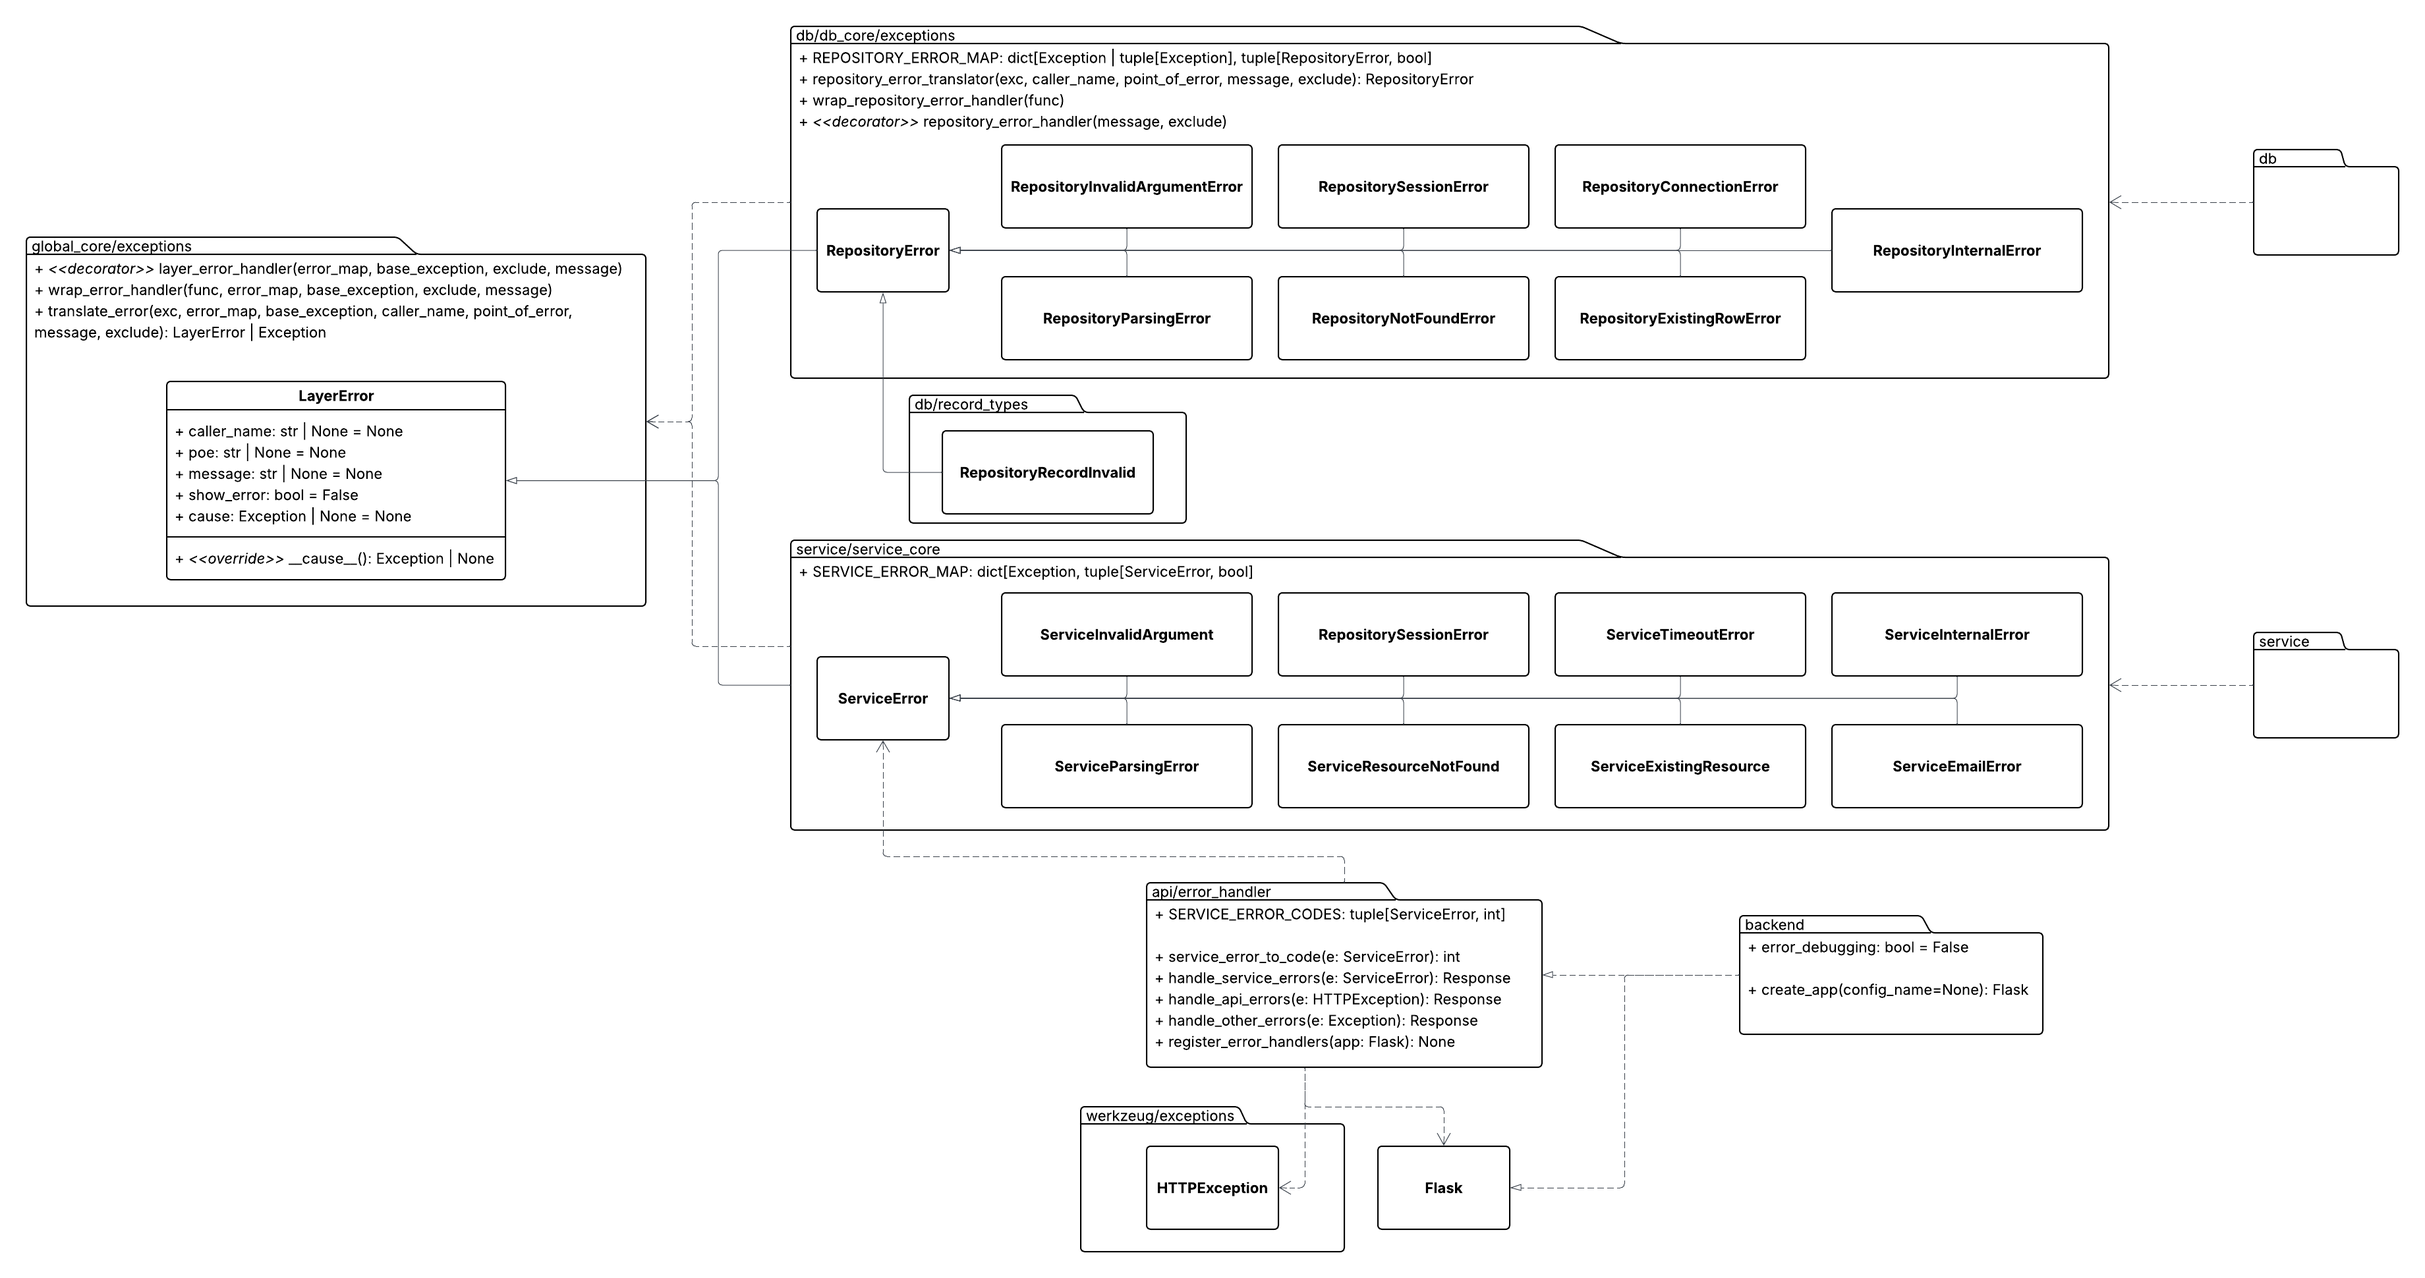
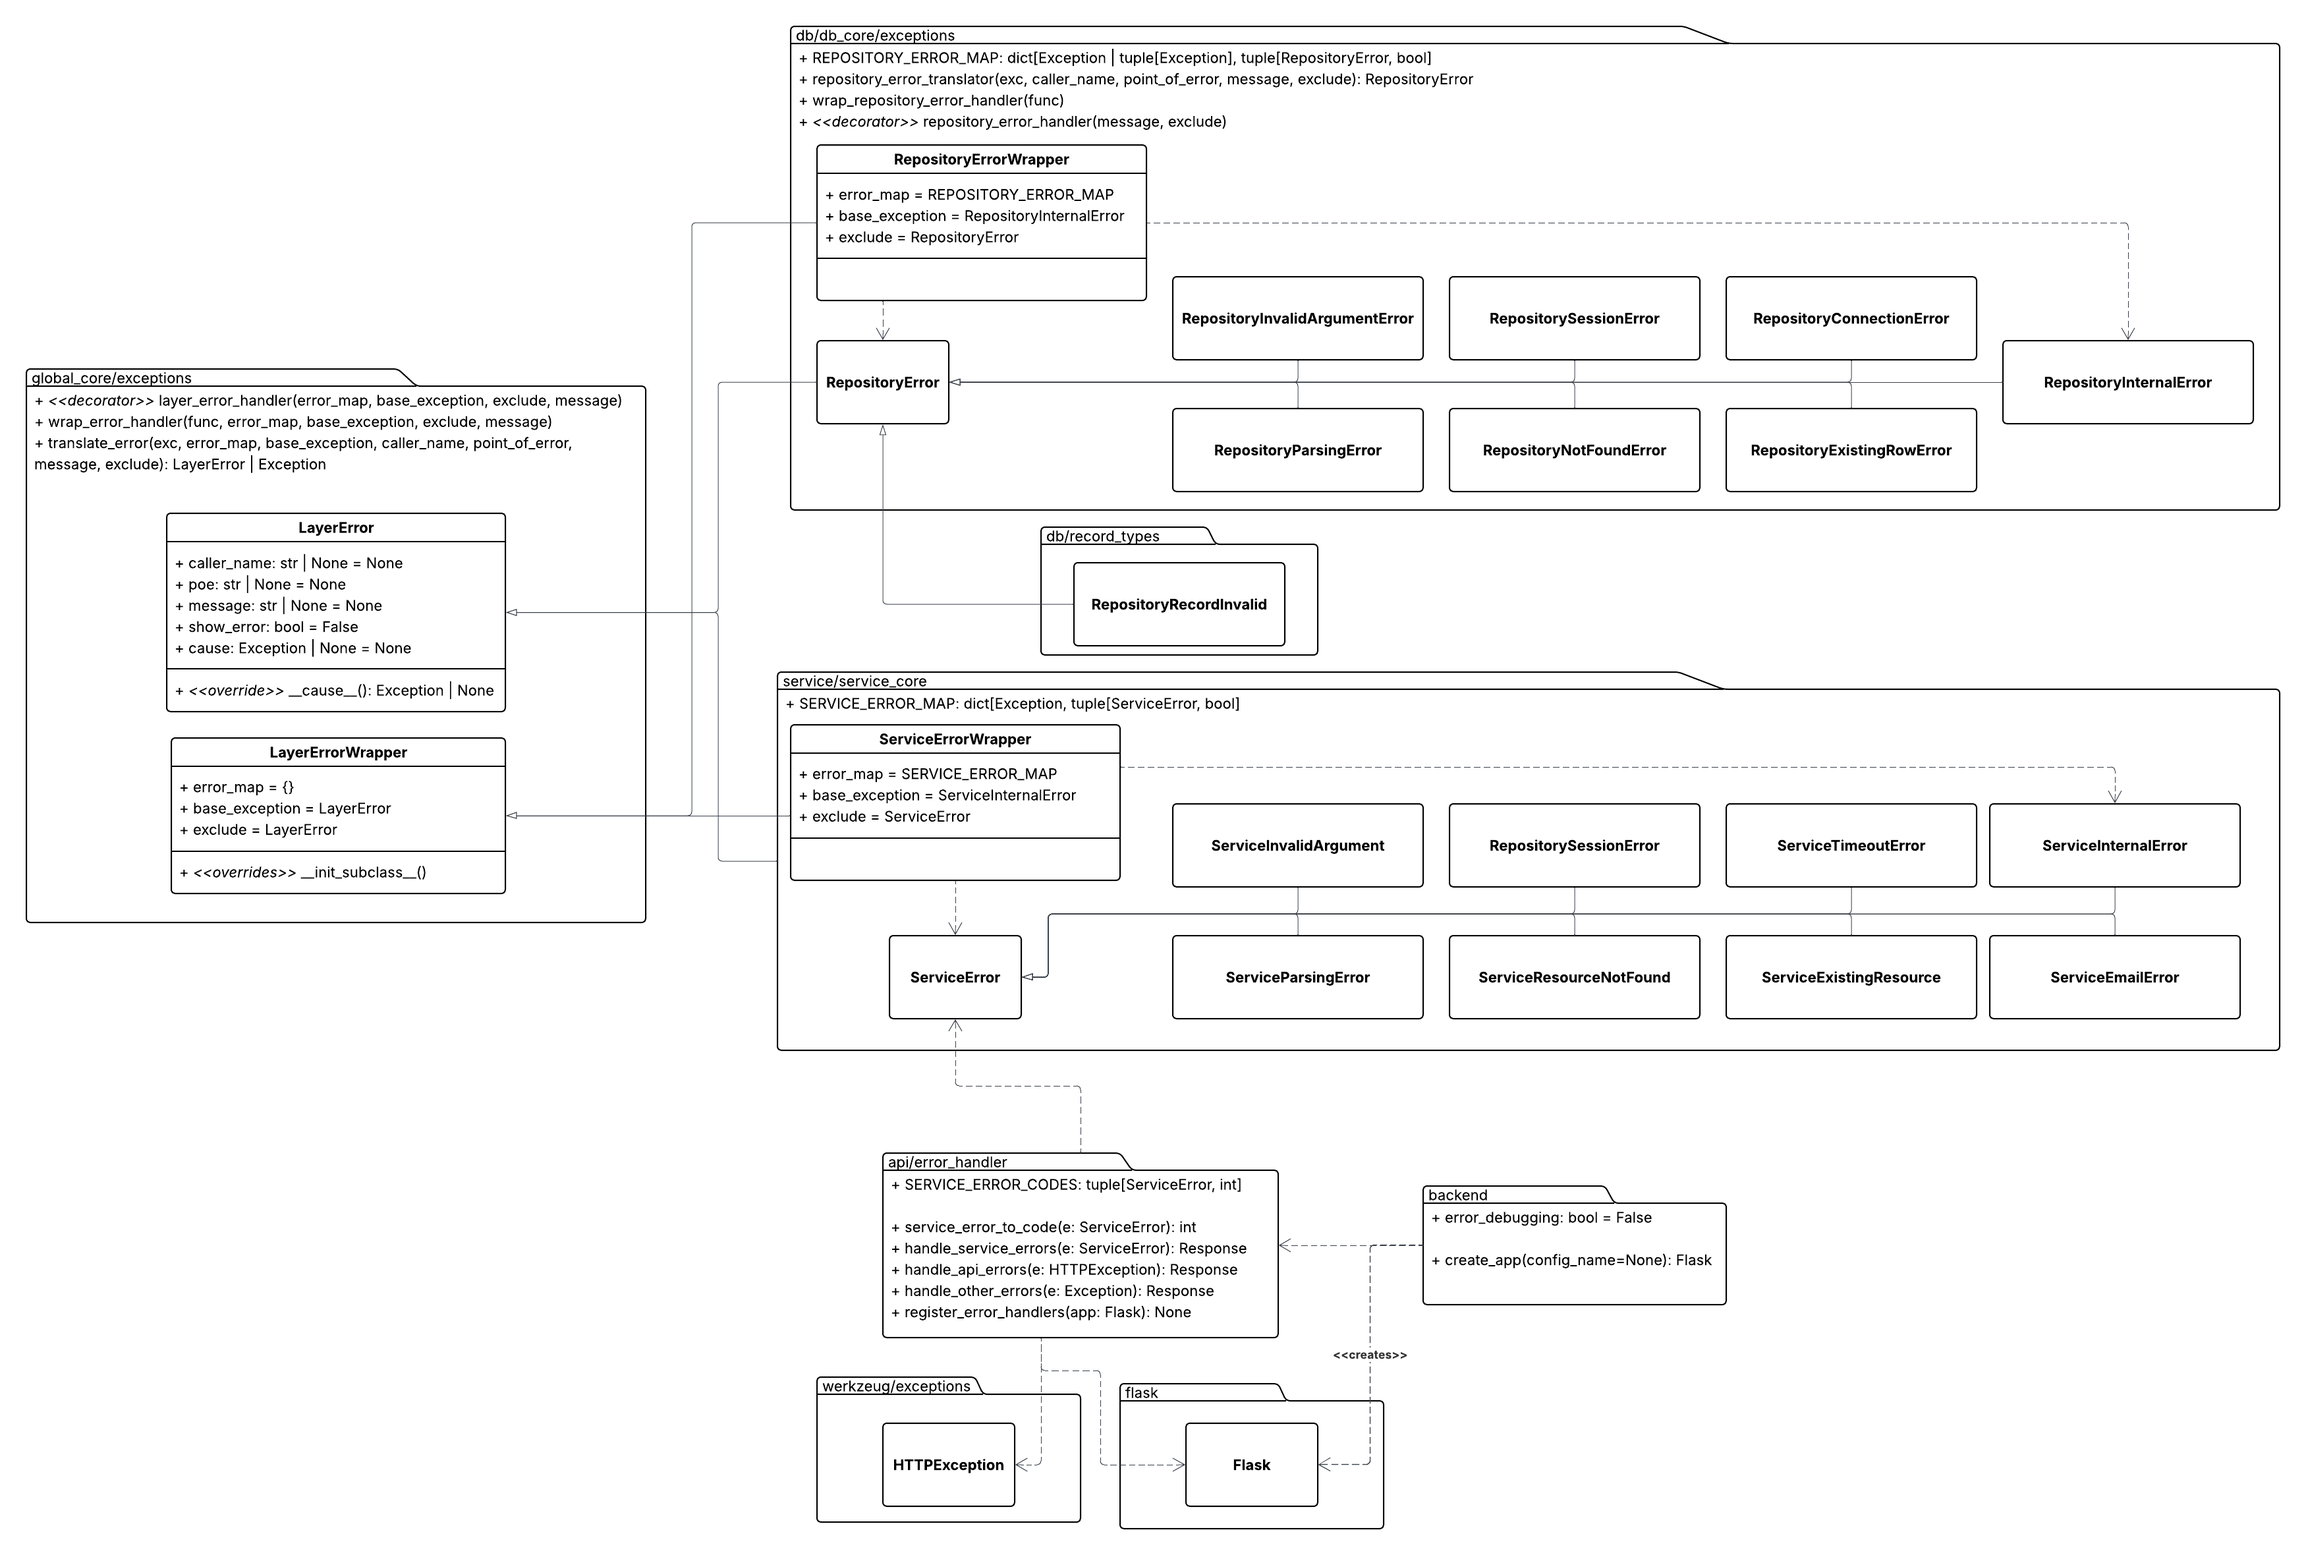
Updated documentation, added Service and Repository implementations for LayerErrorWrapepr

diff --git a/backend/src/db/user_repo.py b/backend/src/db/user_repo.py
@@ -14,17 +14,17 @@ from sqlalchemy.exc import SQLAlchemyError
 from .db_core.models import User
 from .db_core.repository import BaseRepository
 from .db_core.exceptions import (
-    wrap_repository_error_handler,
-    REPOSITORY_ERROR_MAP,
+    RepositoryErrorWrapper,
     RepositoryInternalError,
-    RepositoryError,
     RepositoryNotFoundError,
 )
 
 
-class UserRepository(BaseRepository):
+class UserRepository(RepositoryErrorWrapper, BaseRepository):
     """A database interface for User and UserPreferences record operations
 
+    All methods are wrapped with the RepositoryErrorWrapper to provide error handling.
+    
     Raw SQL queries are wrapped for the 'Users', 'UserPreferences', and 'reset_requests' tables.
 
     Args:
@@ -32,13 +32,6 @@ class UserRepository(BaseRepository):
     """
     def __init__(self, session):
         super().__init__(User, session)
-        # UserRepository methods are wrapped with the wrap_repository_error_handler decorator when the class is instantiatied
-        for attr, value in self.__dict__.items():
-            if callable(value):
-                if attr == "session" or attr.startswith("_") or not callable(value):
-                    continue  # don't override session attribute; causes AttributeError when doing self.session.execute(): 'function' object has no attribute 'execute'
-                wrapped = wrap_repository_error_handler(value)
-                setattr(self, attr, wrapped)
 
     def _construct_email_not_found(self, email: str) -> RepositoryNotFoundError:
         return RepositoryNotFoundError(

diff --git a/backend/src/global_core/exceptions.py b/backend/src/global_core/exceptions.py
@@ -1,5 +1,5 @@
 from functools import wraps
-from typing import Optional, Type, TypeAlias, Union
+from typing import Callable, Optional, Type, TypeAlias, Union
 import inspect
 
 ExceptionType: TypeAlias = Union[Type[Exception], tuple[Type[Exception], ...]]
@@ -344,8 +344,8 @@ class LayerErrorWrapper:
     @classmethod
     def _wrap_class(cls):
         """`cls` should be a subclass extending `LayerErrorWrapper`."""
-        for attr, value in cls.__dict__.items():
-            # Ensure that the attribute is a function; otherwise, attributes will be wrapped
+        for name, value in cls.__dict__.items():
+            # Ensure that the value is a function; otherwise, attributes and other things will be ignored
             if not inspect.isfunction(value):
                 continue
             
@@ -358,4 +358,4 @@ class LayerErrorWrapper:
                     cls.exclude
                 )
                 wrapped._is_wrapped = True
-                setattr(cls, attr, wrapped)
+                setattr(cls, name, wrapped)

diff --git a/backend/src/db/db_core/exceptions.py b/backend/src/db/db_core/exceptions.py
@@ -2,7 +2,7 @@ from typing import Optional, Type
 
 from sqlalchemy.exc import DataError, IntegrityError, MultipleResultsFound, NoResultFound, ProgrammingError, SQLAlchemyError, UnboundExecutionError,InterfaceError, NoSuchModuleError
 
-from ...global_core.exceptions import LayerError, layer_error_handler, translate_error, wrap_error_handler
+from ...global_core.exceptions import LayerError, LayerErrorWrapper, layer_error_handler, translate_error, wrap_error_handler
 
 #################################################
 ##  REPOSITORY EXCEPTION HANDLING DEFINITIONS  ##
@@ -130,3 +130,10 @@ def repository_error_handler(
         exclude=RepositoryError if not exclude else exclude,
         message=message
     )
+    
+    
+class RepositoryErrorWrapper(LayerErrorWrapper):
+    """A wrapper for adding error handling to repository class methods."""
+    error_map = REPOSITORY_ERROR_MAP
+    base_exception = RepositoryInternalError
+    exclude = RepositoryError

diff --git a/backend/docs/markdown/service.md b/backend/docs/markdown/service.md
@@ -16,7 +16,11 @@ Currently, *five* services exist in the application, four of which extend [`Base
 The purpose of `BaseService` is to provide a sublcass constructor for services that should be wrapped with the application's error handling logic using `wrap_error_handler` (see [Error Handling](errors.md)). Extending this class removes the need to manually integrate layer-specific exception handling for each method.
 
 ## Service Error Handling
-This layer employs the standardized functionality from `global_core.exceptions` to translate [`RepositoryError`](repository.md#error-types) exceptions into [`ServiceError`](#error-types) exceptions. Additionally, this layer should specify the set of exceptions allowed to display their error messages to the **API** layer and client. To achieve this, the [`SERVICE_ERROR_MAP`](#repository-to-service-mapping) is used, where the key specifies the exception being translated, and the tuple contains the new exception along with a boolean indicating whether the error message should be shown in the response. If the *Flask* instance is in either testing or debugging mode, all error messages will be displayed, regardless of the current settings in the error map.
+This layer uses the standardized functionality from `global_core.exceptions` to translate [`RepositoryError`](repository.md#error-types) exceptions into [`ServiceError`](#error-types) exceptions. Additionally, this layer should specify the set of exceptions allowed to display their error messages to the **API** layer, and eventually the client. 
+
+To achieve this, the [`SERVICE_ERROR_MAP`](#repository-to-service-mapping) is used, where the key specifies the exception being translated, and the tuple contains the new exception along with a boolean indicating whether the error message should be shown in the response. If the *Flask* instance is in either testing or debugging mode, all error messages will be displayed, regardless of the current settings in the error map. 
+
+Every class in this layer uses a subclass named `ServiceErrorWrapper` (found in `service.service_core`), which inherits the method wrapping logic from [`LayerErrorWrapper`](errors.md#layererrorwrapper), and redefines the translation behavior to align with the Service layer. The `ServiceErrorWrapper` uses the [`SERVICE_ERROR_MAP`](#repository-to-service-mapping) for translation purposes, with any unmapped exception defaulting to a [`ServiceInternalError`](#error-types). Additionally, all [`ServiceError`](#error-types) types are allowed to pass through unchanged.
 
 ## Error Types
 

diff --git a/backend/docs/markdown/errors.md b/backend/docs/markdown/errors.md
@@ -224,9 +224,9 @@ class CustomClass:
             )
 ```
 
-# `LayerErrorWrapper`
+# LayerErrorWrapper
 
-A superclass that wraps all subclass methods with the error handling logic in [`wrap_error_handler`](#wrap_error_handler) and [`translate_error`](#translate_error). Methods are wrapped at class definition time, not when a class is instantiated.
+A superclass that wraps all subclass methods with the error handling logic in [`wrap_error_handler`](#wrap_error_handler) and [`translate_error`](#translate_error). Methods are wrapped at subclass definition time, not when a subclass is instantiated.
 
 ## Default Attributes
 This class specifies three class attributes that define how certain exceptions are translated. By default, all exceptions but [`LayerError`](#layererror) instances are translated into a [`LayerError`](#layererror). This behavior can be changed by adjusting the attributes below:
@@ -265,11 +265,13 @@ class ExampleClass(LayerErrorWrapper):
     def __init__():
         self.lower_class = LowerClass()
 
-    def higher_method(
+    # This method is wrapped
+    def higher_method_one(
         permission: int, 
         number_one: int, 
         number_two: int
     ):
+        # Both of the exceptions below are ignored by LayerErrorWrapper
         if self.permission < 3:
             raise HigherPermissionError(
                 self.__class__.__name__,
@@ -286,6 +288,11 @@ class ExampleClass(LayerErrorWrapper):
                 True
             )
 
+        # Exceptions that occur here are caught by LayerErrorWrapper
         result = self.lower_class.lower_method(permission, number_one)
         return result / number_two
+    
+    # This method is also wrapped
+    def higher_method_two(...):
+        ...
 ```
